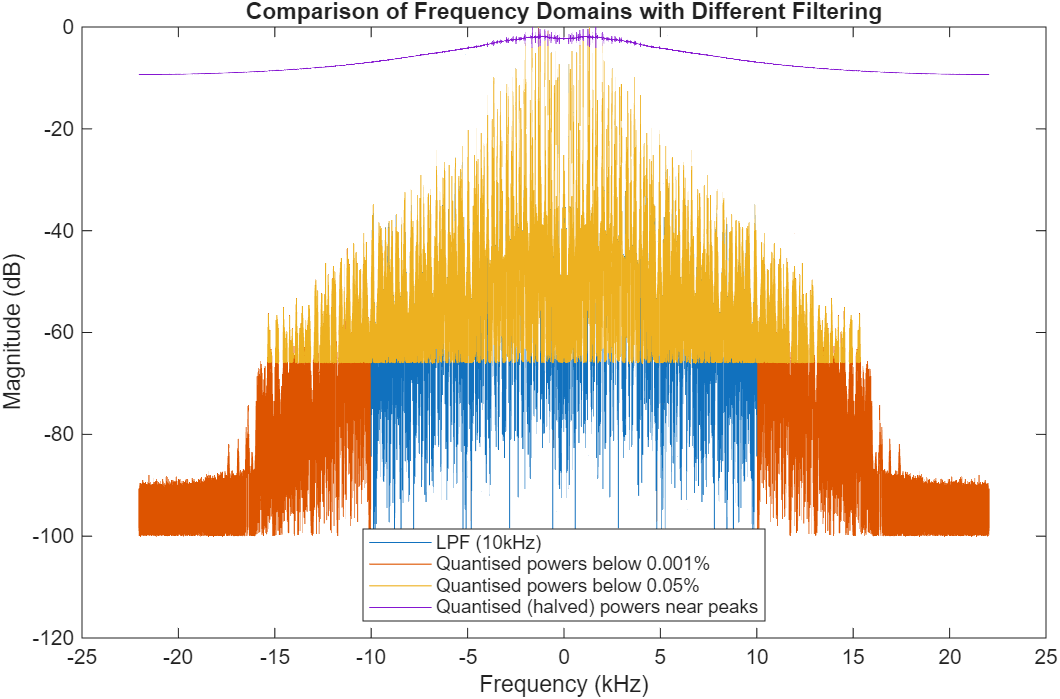
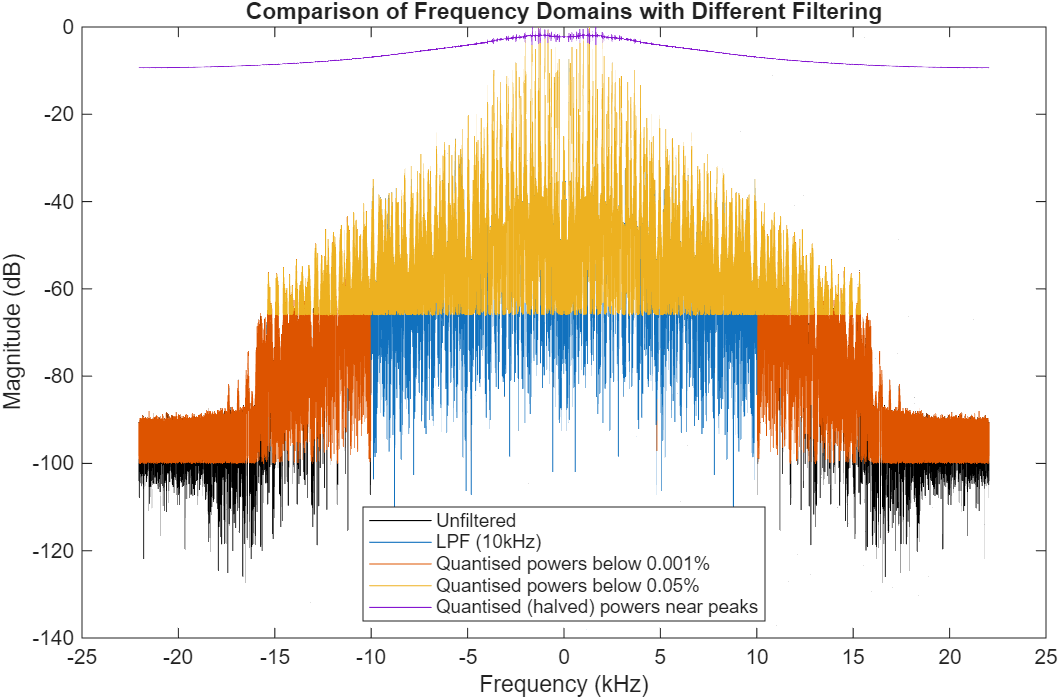
Plot improvements
- Uses static_masking function rather than reimplementing
 - Tests thresholds for all 3 signals
 - Plots error from all threshold tests
 - Makes figure 13 colours nicer

diff --git a/main.m b/main.m
@@ -54,10 +54,7 @@ ssErrorLPF = mean(errorLPF(160:end-160) .^ 2);
 fprintf("LPF sum squared error (sig1): %e\n", ssErrorLPF);
 
 %% Quantisation of low power elements
-fftQuant1 = fft1;
-threshold = 0.00001 * max(abs(fft1));
-lowIndex = abs(fft1) < threshold;
-fftQuant1(lowIndex) = 0;
+[fftQuant1, ~] = static_masking(fft1, 0.00001);
 
 figure(3); plot(omega1khz, fftshift_norm_db(fftQuant1)); 
 title(sprintf("Filtered Frequency Domain \n(low-power components under 0.001%% of max removed)"));
@@ -73,10 +70,7 @@ xlabel("Seconds")
 ylabel("Absolute Error")
 % sound(seg1_out(1:fs*5), fs);
 
-fftQuant5 = fft1;
-threshold = 0.0005 * max(abs(fft1));
-lowIndex5 = abs(fft1) < threshold;
-fftQuant5(lowIndex5) = 0;
+[fftQuant5, ~] = static_masking(fft1, 0.0005);
 seg1Out5 = ifft(fftQuant5);
 error5 = (seg1Out5 - seg1);
 ssError5 = sum(error5(160:end-160) .^ 2);
@@ -91,24 +85,43 @@ ylabel("Magnitude (dB)")
 
 %% Static thresholds
 thresholds = [0.000001:0.000001:0.00005-0.000001,0.00005:0.00001:0.001];
-[errors, coeffDiff, numCoeffDel] = test_thresholds(fft1, thresholds * max(abs(fft1)), seg1, @static_masking);
+[errorsSig1, coeffDiffSig1, numCoeffDelSig1] = test_thresholds(fft1, thresholds * max(abs(fft1)), seg1, @static_masking);
+[errorsSig2, coeffDiffSig2, numCoeffDelSig2] = test_thresholds(fft2, thresholds * max(abs(fft2)), seg2, @static_masking);
+[errorsSig3, coeffDiffSig3, numCoeffDelSig3] = test_thresholds(fft3, thresholds * max(abs(fft3)), seg3, @static_masking);
+
+%% Plot error against thresholds
 figure(6);
-plot(thresholds*100, 20*log10(abs(errors)))
+plot(thresholds*100, 20*log10(abs(errorsSig1)),'DisplayName', 'Single Brass')
+hold on;
+plot(thresholds*100, 20*log10(abs(errorsSig2)),'DisplayName', 'Multiple Brass')
+plot(thresholds*100, 20*log10(abs(errorsSig3)),'DisplayName', 'Strings and Some Brass')
+hold off;
 title("Normalised Error by Threshold Level")
 xlabel("Thresholds (% of max magnitude of power)")
 ylabel("Normalised Error (dB)")
+legend('Location','southeast')
 
 figure(7);
-plot(numCoeffDel, 20*log10(abs(errors)))
+plot(numCoeffDelSig1, 20*log10(abs(errorsSig1)),'DisplayName', 'Single Brass')
+hold on;
+plot(numCoeffDelSig1, 20*log10(abs(errorsSig2)),'DisplayName', 'Multiple Brass')
+plot(numCoeffDelSig1, 20*log10(abs(errorsSig3)),'DisplayName', 'Strings and Some Brass')
+hold off;
 title("Normalised Error by Number of Coefficients Deleted")
 xlabel("Number of Coefficients Deleted")
 ylabel("Normalised Error (dB)")
+legend('Location','southeast')
 
 figure(8);
-plot(thresholds*100,coeffDiff);
-title("Number of new coefficients deleted at current threshold compared to previous threshold")
+plot(thresholds*100, log10(coeffDiffSig1),'DisplayName', 'Single Brass');
+hold on;
+plot(thresholds*100, log10(coeffDiffSig2),'DisplayName', 'Multiple Brass');
+plot(thresholds*100, log10(coeffDiffSig3),'DisplayName', 'Strings and Some Brass');
+hold off;
+title("Difference in Coefficients Deleted between Thresholds")
 xlabel("Thresholds (% of max magnitude of power)")
-ylabel("No. of new coeff deleted")
+ylabel("No. of new coeff deleted (log10)")
+legend('Location','southeast')
 
 %% Dynamic Thresholds and Smaller windows
 % Base thresholds around peaks 
@@ -198,14 +211,12 @@ hold off
 % Combine frequency plots for comparison
 figure(13);
 hexCols = rgb2hex(orderedcolors("gem"));
-ogPlt = plot(omega1khz, fftshift_norm_db(fft1), ...
-    'Color', 'k', ...
-    'DisplayName', 'Unfiltered');
+ogPlt = plot(omega1khz, fftshift_norm_db(fft1), 'Color', 'k', 'DisplayName', 'Unfiltered');
 hold on;
 qntPlt1 = plot(omega1khz, fftshift_norm_db(fftQuant1), 'Color', hexCols(2), 'DisplayName', 'Quantised powers below 0.001%');
 lpfPlt  = plot(omega1khz, fftshift_norm_db(fft1LPF), 'Color', hexCols(1), 'DisplayName', 'LPF (10kHz)');
-qntPlt5 = plot(omega1khz, fftshift_norm_db(fftQuant5), 'DisplayName', 'Quantised powers below 0.05%');
-dynPlt  = plot(omega1khz, fftshift_norm_db(fft(seg1OutDyn)), 'DisplayName', 'Quantised (halved) powers near peaks');
+qntPlt5 = plot(omega1khz, fftshift_norm_db(fftQuant5), 'Color', hexCols(3), 'DisplayName', 'Quantised powers below 0.05%');
+dynPlt  = plot(omega1khz, fftshift_norm_db(fft(seg1OutDyn)), 'Color', hexCols(4), 'DisplayName', 'Quantised (halved) powers near peaks');
 legend([ogPlt, lpfPlt, qntPlt1, qntPlt5, dynPlt], 'Location','south');
 title('Comparison of Frequency Domains with Different Filtering');
 xlabel('Frequency (kHz)');
